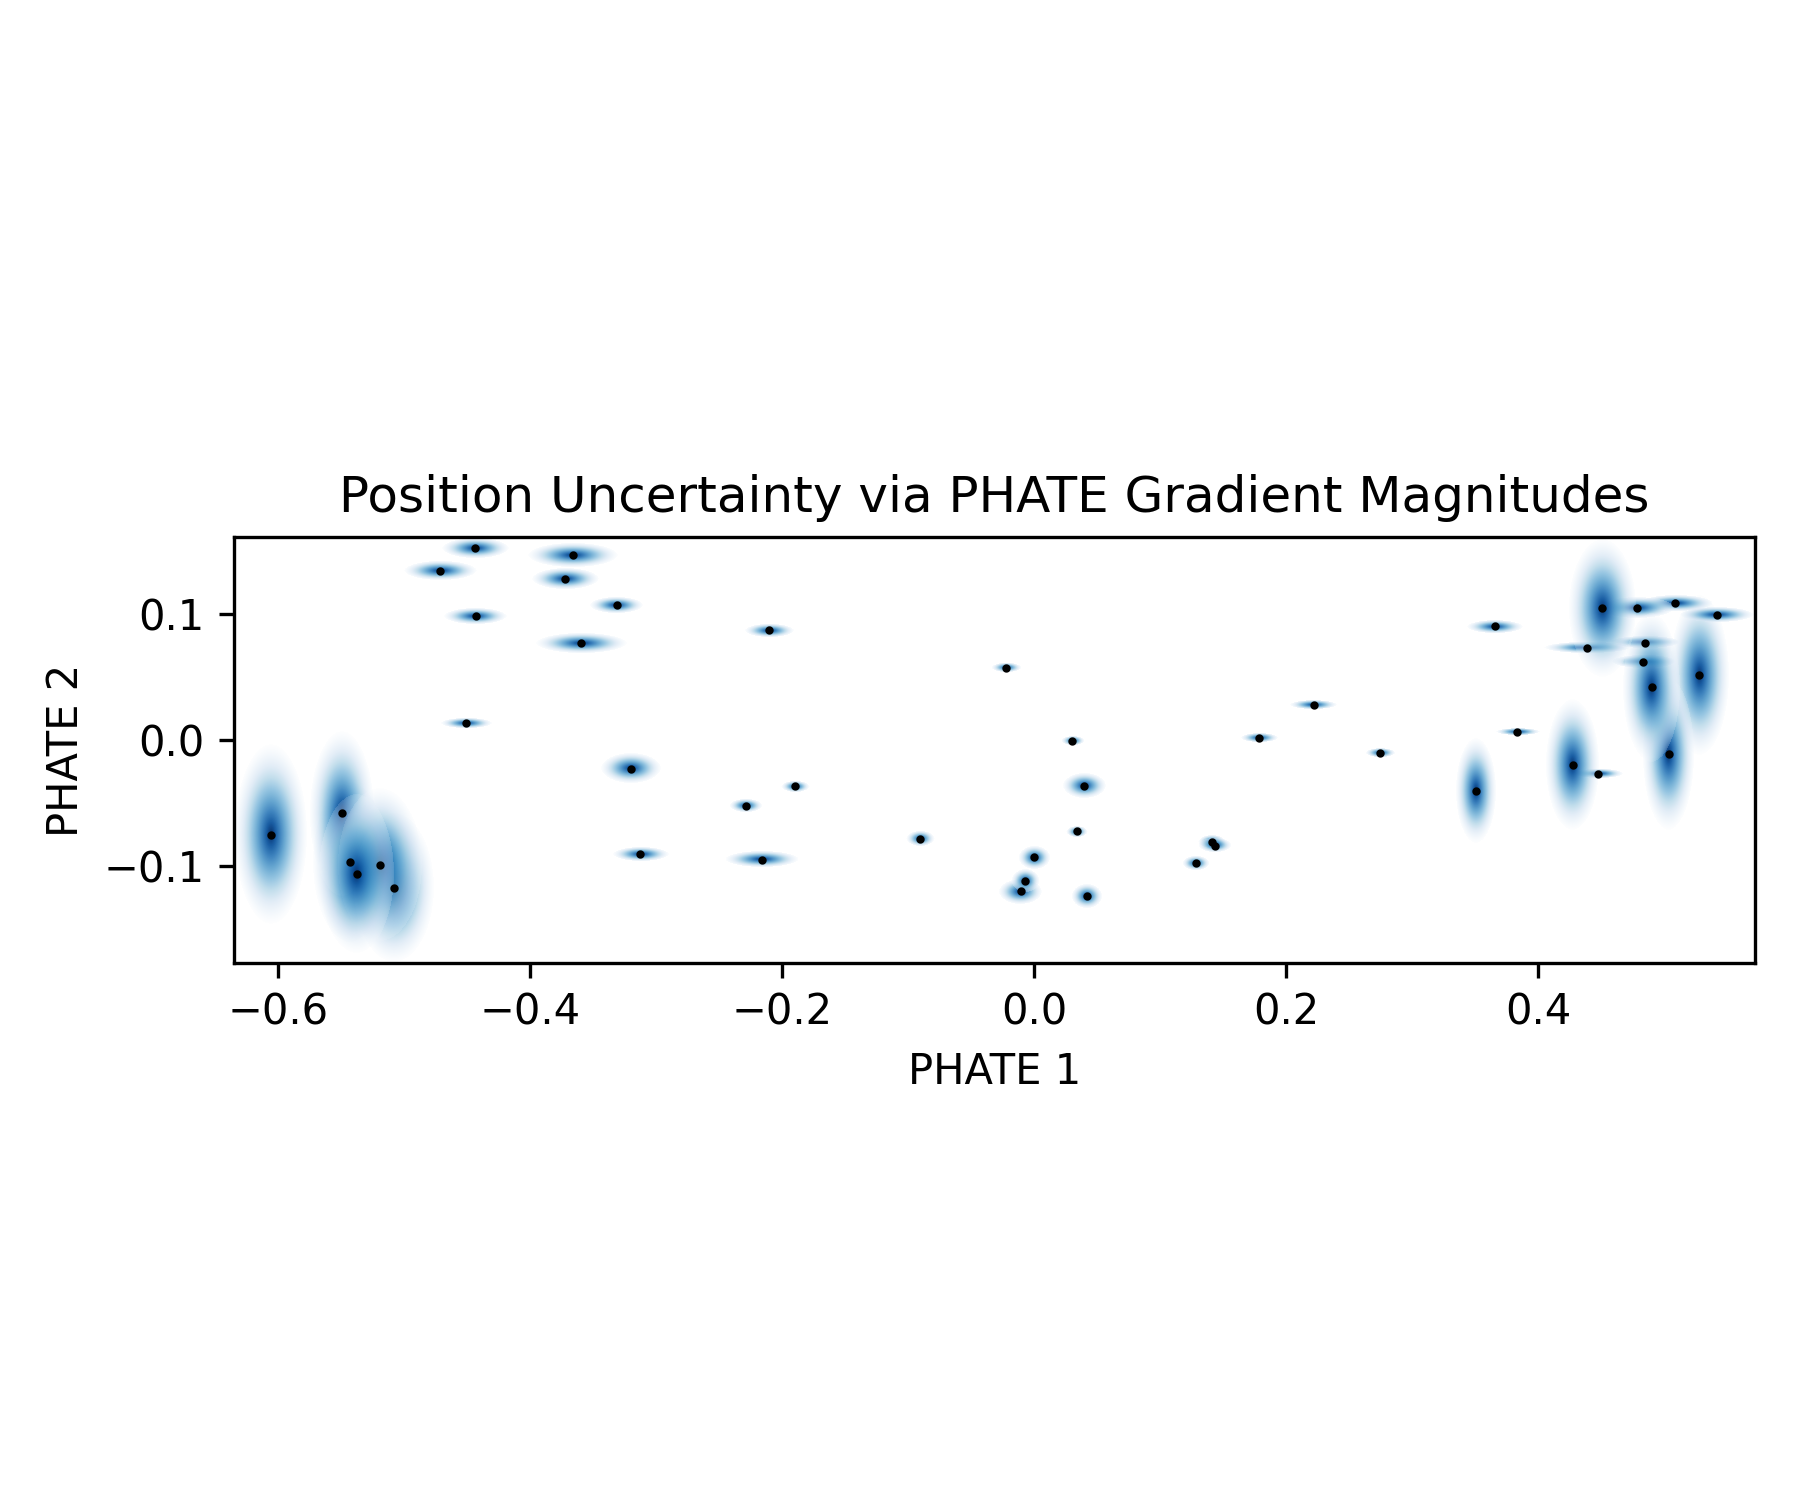
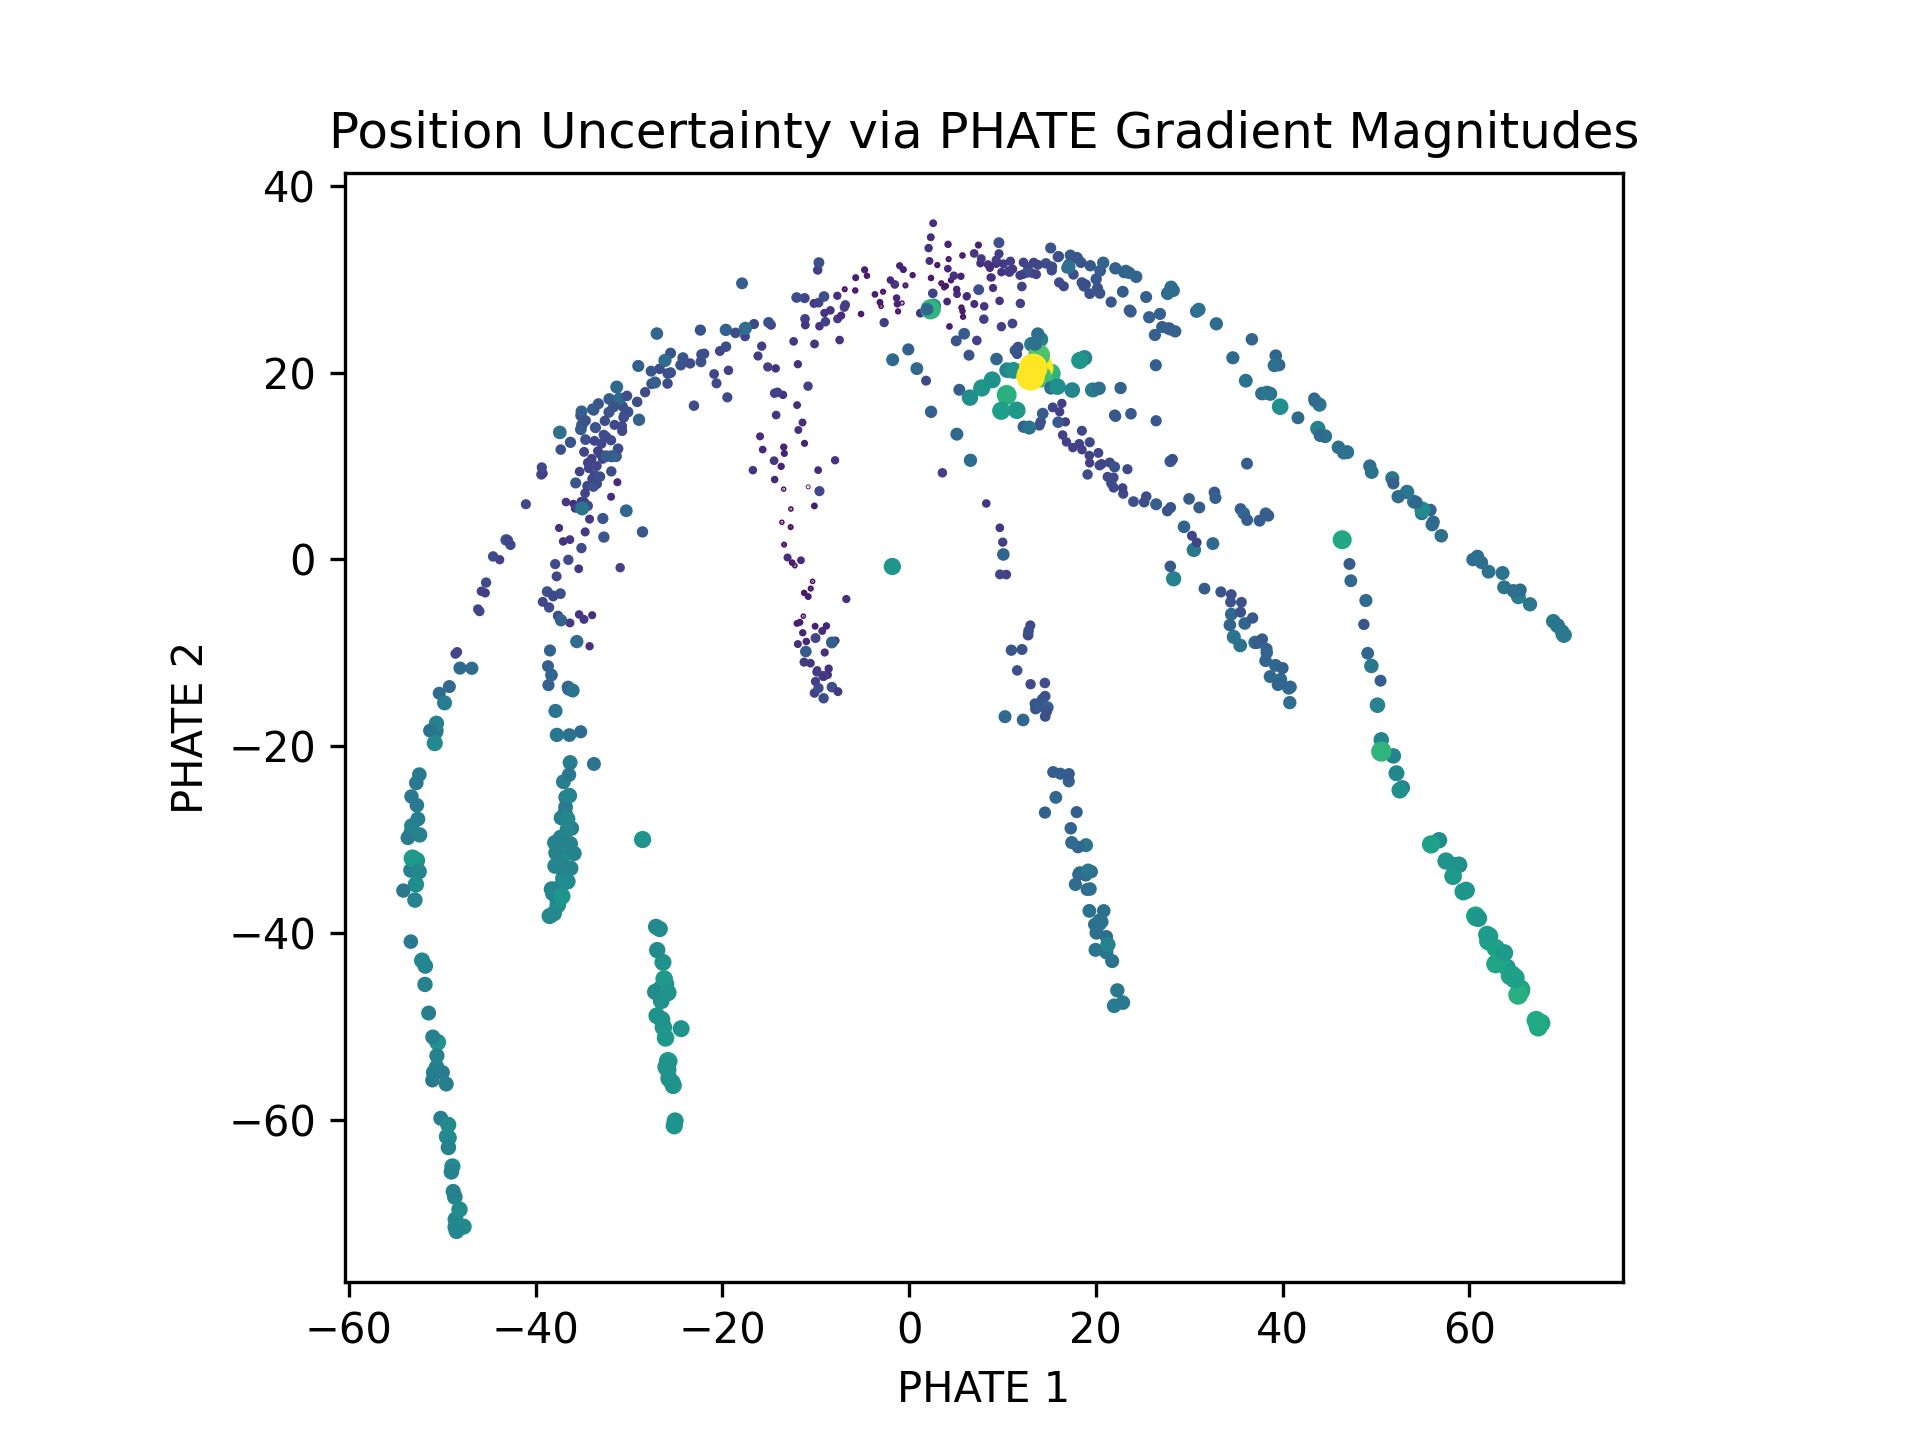
wip phate plots

diff --git a/scripts/phate_uncertainty_plots.py b/scripts/phate_uncertainty_plots.py
@@ -147,7 +147,7 @@ def phate_gradients(X, key, phate_params):
     def gradient_magnitudes(X):
         Y, vjp_fun = jax.vjp(embedding_fun, X)
         basis = _std_basis(Y)
-        batch_size = 50
+        batch_size = 400
         X_uphate_jac = jax.lax.map(vjp_fun, basis, batch_size=batch_size)[0].reshape(
             *Y.shape, *X.shape
         )
@@ -198,10 +198,10 @@ def create_gradient_sprite(size, cmap_name):
 
 def plot_ellipses_with_sprites(positions, axis_lengths):
     # --- Plotting ---
-    fig, ax = plt.subplots(figsize=(6, 5))
+    fig, ax = plt.subplots(figsize=FIGSIZE)
 
     # 1. Generate the generic gradient image once
-    sprite = create_gradient_sprite(size=512, cmap_name="Blues")
+    sprite = create_gradient_sprite(size=128, cmap_name="Blues")
 
     # 2. Plot each ellipse as a stretched image
     for pos, axes in zip(positions, axis_lengths):
@@ -231,15 +231,31 @@ def plot_ellipses_with_sprites(positions, axis_lengths):
 
 def phate_gradients_plot(grad_magnitudes, X_uphate):
     print("Plotting gradient magnitudes")
-    fig, ax = plot_ellipses_with_sprites(X_uphate, grad_magnitudes)
+    fig, ax = plot_ellipses_with_sprites(
+        X_uphate, jnp.clip(grad_magnitudes * 20, 0.0, 10.0)
+    )
     ax.set_aspect("equal")
-    ax.set_title("Position Uncertainty via PHATE Gradient Magnitudes")
+    ax.set_title("Position Uncertainty via PHATE Gradient Ellipses")
     ax.set_xlabel("PHATE 1")
     ax.set_ylabel("PHATE 2")
     fig.tight_layout()
     print("Finished generating plot, saving...")
+    fig.savefig(fig_dir / "phate_gradient_ellipses.png", dpi=300)
+
+    fig, ax = plt.subplots(figsize=FIGSIZE)
+    fig, ax = plt.subplots()
+    grad_ellipse_area = jnp.clip(jnp.log(jnp.prod(grad_magnitudes, axis=1)), None, 1)
+    ax.scatter(
+        *X_uphate.T,
+        c=grad_ellipse_area,
+        s=(grad_ellipse_area - grad_ellipse_area.min() + 0.2) ** 2,
+    )
+    ax.set_aspect("equal")
+    ax.set_title("Position Uncertainty via PHATE Gradient Magnitudes")
+    ax.set_xlabel("PHATE 1")
+    ax.set_ylabel("PHATE 2")
     fig.savefig(fig_dir / "phate_gradient_magnitudes.png", dpi=300)
-    return fig, ax
+    return
 
 
 def main():
@@ -258,16 +274,19 @@ def main():
     X_uphate = get_base_phate(X, base_subkey, phate_params)
     base_phate_plot(X_uphate, labels)
 
-    # key, bootstrap_subkey = jax.random.split(key)
-    # embeddings = get_boostrap_embeddings(
-    #     X, bootstrap_subkey, n_bootstrap=args.n_bootstrap, phate_params=phate_params
-    # )
-    # aligned_embeddings = align_bootstrap_embeddings(embeddings, X_uphate)
-    # bootstrap_phate_plot(aligned_embeddings, X_uphate)
-    # bootstrap_point_plot(aligned_embeddings, args.plot_index)
+    key, bootstrap_subkey = jax.random.split(key)
+    embeddings = get_boostrap_embeddings(
+        X, bootstrap_subkey, n_bootstrap=args.n_bootstrap, phate_params=phate_params
+    )
+    aligned_embeddings = align_bootstrap_embeddings(embeddings, X_uphate)
+    bootstrap_phate_plot(aligned_embeddings, X_uphate)
+    bootstrap_point_plot(aligned_embeddings, args.plot_index)
 
     gradient_magnitudes = phate_gradients(X, base_subkey, phate_params)
     phate_gradients_plot(gradient_magnitudes, X_uphate)
+
+    max_mem_gb = jax.devices()[0].memory_stats()["peak_bytes_in_use"] / 1e9
+    print(f"Completed with {max_mem_gb:.4f} max GPU memory usage")
 
 
 if __name__ == "__main__":
